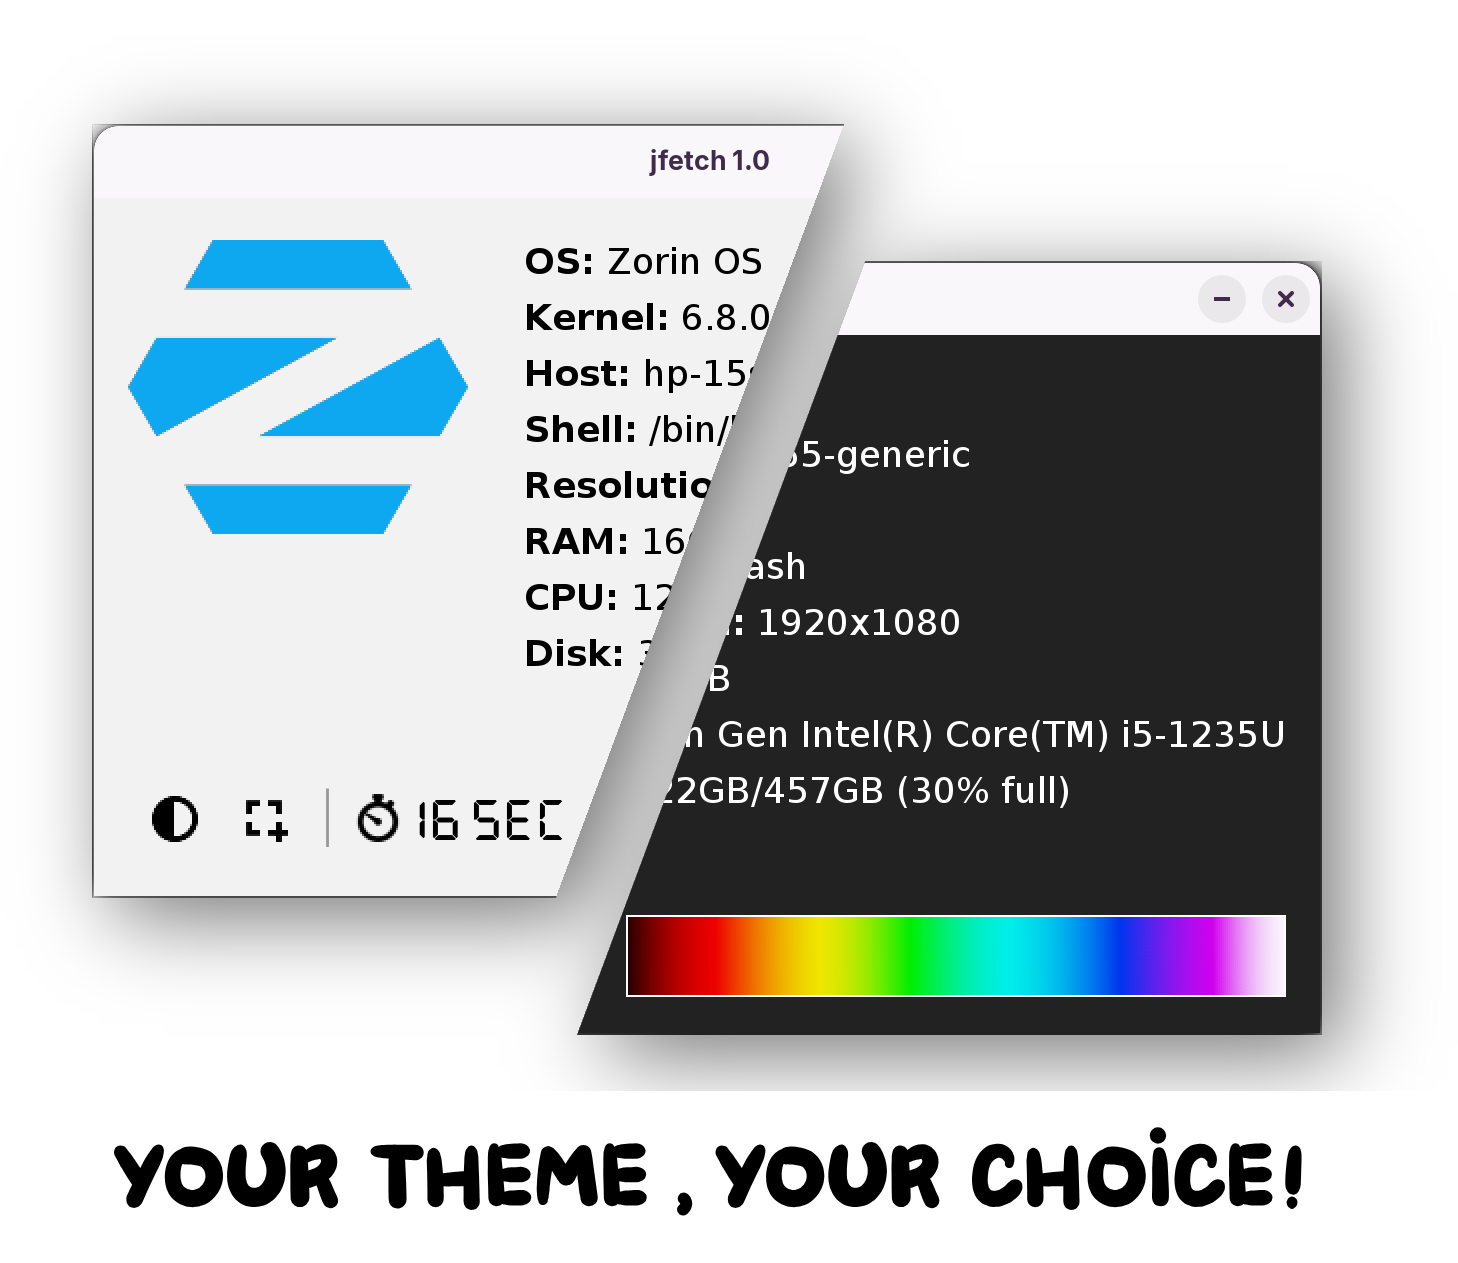
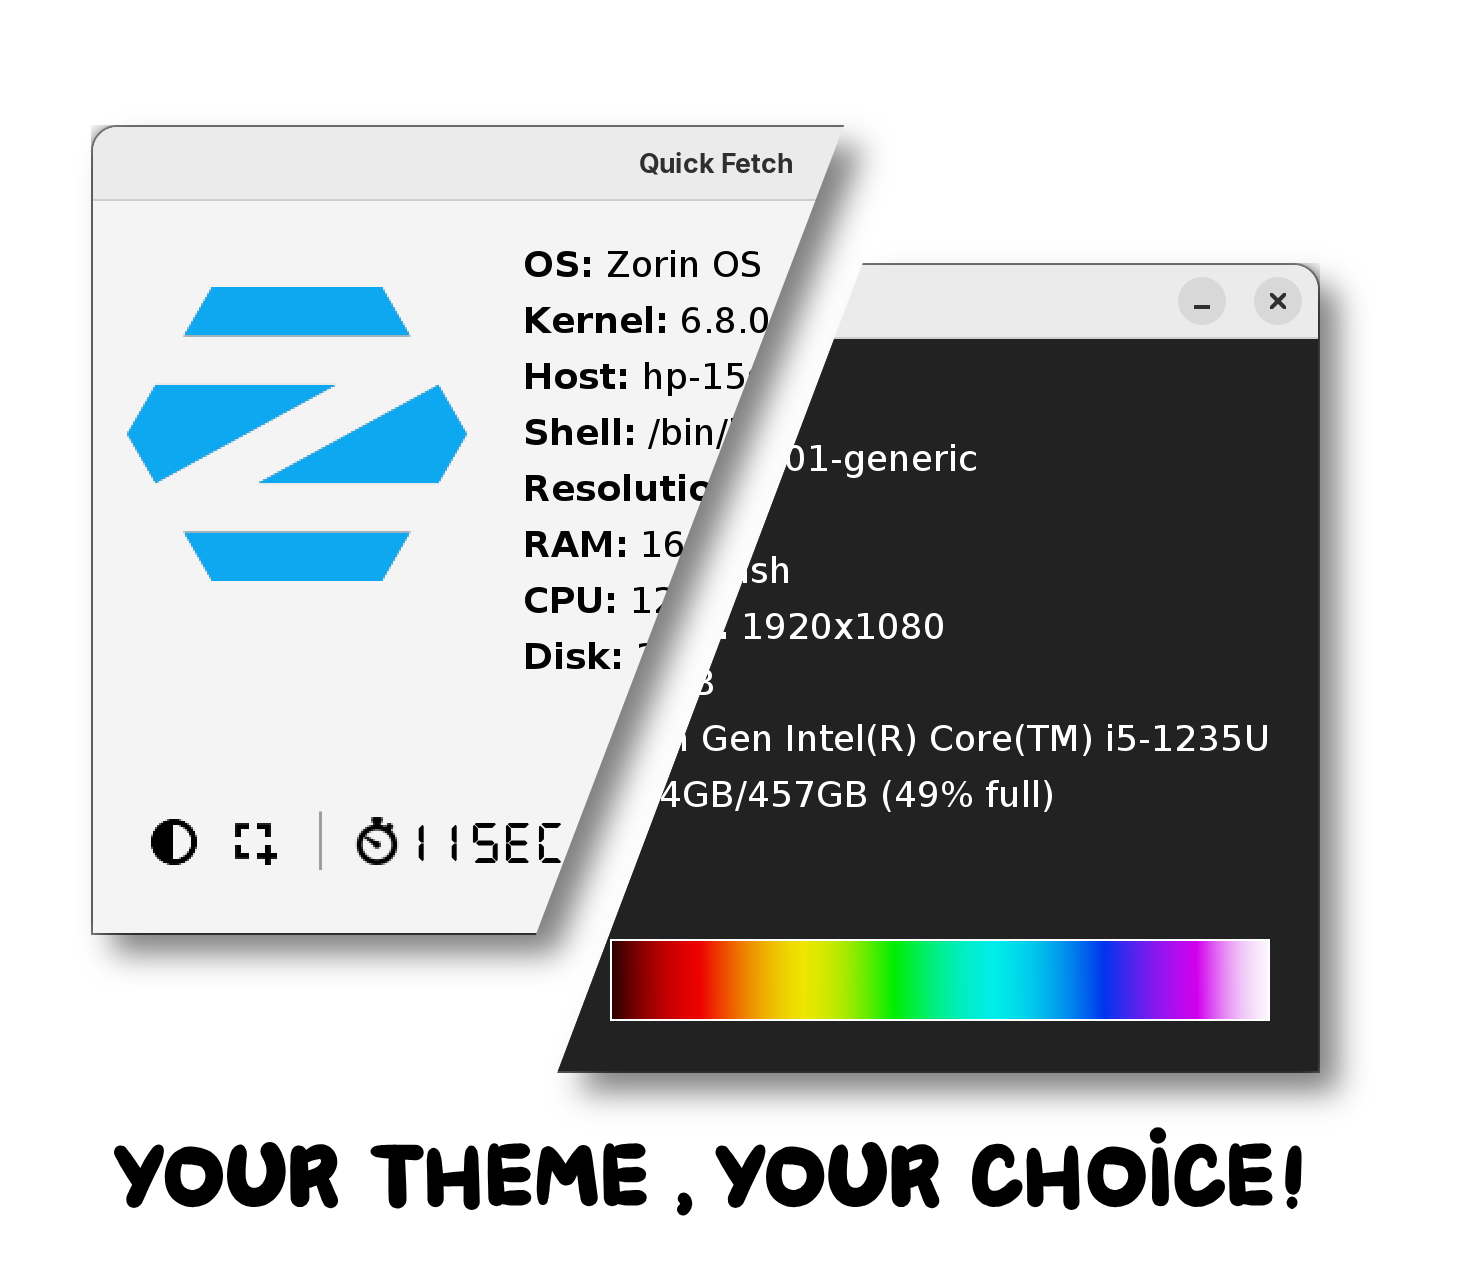
Reupload project

Changed region(s): [[0.0617, 0.0618, 0.9568, 0.8955], [0.0309, 0.1544, 0.3395, 0.7102]]

diff --git a/README.md b/README.md
@@ -1,5 +1,5 @@
-# <img src="src/jfetch/icon.png" alt="icon" width="28"/> JFectch  
-A Java GUI-based Neofetch application made using Swing that supports showing info for up to 44 distros. 
+# <img src="src/quickfetch/icon.png" alt="icon" width="38"/> Quick Fectch  
+A Java GUI-based Neofetch application that supports showing info for up to 44 distros as well as FreeBSD, NetBSD, OpenBSD and Oracle Solaris. 
 
 
 ## Features
@@ -20,20 +20,21 @@ This app supports most Linux distros as well as FreeBSD, NetBSD, OpenBSD and Ora
 <img src="screenshots/Toggle.png" alt="Mix screenshot" width="600"/>   <img src="screenshots/save.png" alt="SCreenshot button screenshot" width="600"/>
 
 ## Running project
-To run jfetch, use `cd dist` and then `java -jar JFetch.jar`
+To run quickfetch, use `cd dist` and then `java -jar quickfetch.jar`
 
 ## Common problems and solutions
-1) JFetch relies on bash to fetch some information from your system. If it gives off any type of error such as `/bin/bash not found`
+1) Quick Fetch relies on bash to fetch some information from your system. If it gives off any type of error such as `/bin/bash not found`
 - You will need to copy the bash binary from its original place to /bin and re run the project or create a symbolic link
 - You will need to make sure bash is installed on your system
 
-2) JFetch requires execution permition to run
-- You will have to use `chmod +x JFetch.jar` to give it permition to run
+2) Quick Fetch requires execution permition to run
+- You will have to use `chmod +x quickfetch.jar` to give it permition to run
 
 ## 
 Copyright (c) 2025 AndronikosGl. All rights reserved.
 
 This repository contains proprietary code. You may view the code, but you **may not copy, modify, redistribute, or use it for commercial purposes** without explicit written permission from the copyright holder.
+
 
 
 
